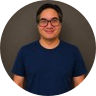
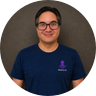
Actualizar fotos y alinear el equipo

Changed region(s): [[0.1875, 0.0312, 0.9375, 0.9375], [0.0938, 0.6875, 0.2812, 0.9375], [0.5938, 0.625, 0.7188, 0.75]]

diff --git a/README.md b/README.md
@@ -31,14 +31,18 @@
 
 ## Nuestro equipo
 
-<p align="center">
-  <a href="https://www.linkedin.com/in/ailin-pizarro/" title="LinkedIn de Ailin Pizarro"><img width="96" height="96" alt="Ailin Pizarro, CEO de WorKraken" src="./assets/team/ailin-pizarro-circle.png"></a>&nbsp;&nbsp;&nbsp;&nbsp;
-  <a href="https://www.linkedin.com/in/joaquinn-benitez/" title="LinkedIn de Joaquín Benítez"><img width="96" height="96" alt="Joaquín Benítez, CTO de WorKraken" src="./assets/team/joaquin-benitez-circle.png"></a>
-</p>
-
-<p align="center">
-  <strong>Ailin Pizarro</strong> · CEO &nbsp;&nbsp;&nbsp;&nbsp; <strong>Joaquín Benítez</strong> · CTO
-</p>
+<table align="center">
+  <tr>
+    <td align="center" width="180">
+      <a href="https://www.linkedin.com/in/ailin-pizarro/" title="LinkedIn de Ailin Pizarro"><img width="96" height="96" alt="Ailin Pizarro, CEO de WorKraken" src="./assets/team/ailin-pizarro-circle.png"></a><br>
+      <strong>Ailin Pizarro</strong> · CEO
+    </td>
+    <td align="center" width="180">
+      <a href="https://www.linkedin.com/in/joaquinn-benitez/" title="LinkedIn de Joaquín Benítez"><img width="96" height="96" alt="Joaquín Benítez, CTO de WorKraken" src="./assets/team/joaquin-benitez-circle.png"></a><br>
+      <strong>Joaquín Benítez</strong> · CTO
+    </td>
+  </tr>
+</table>
 
 ## Encontranos en las redes
 
